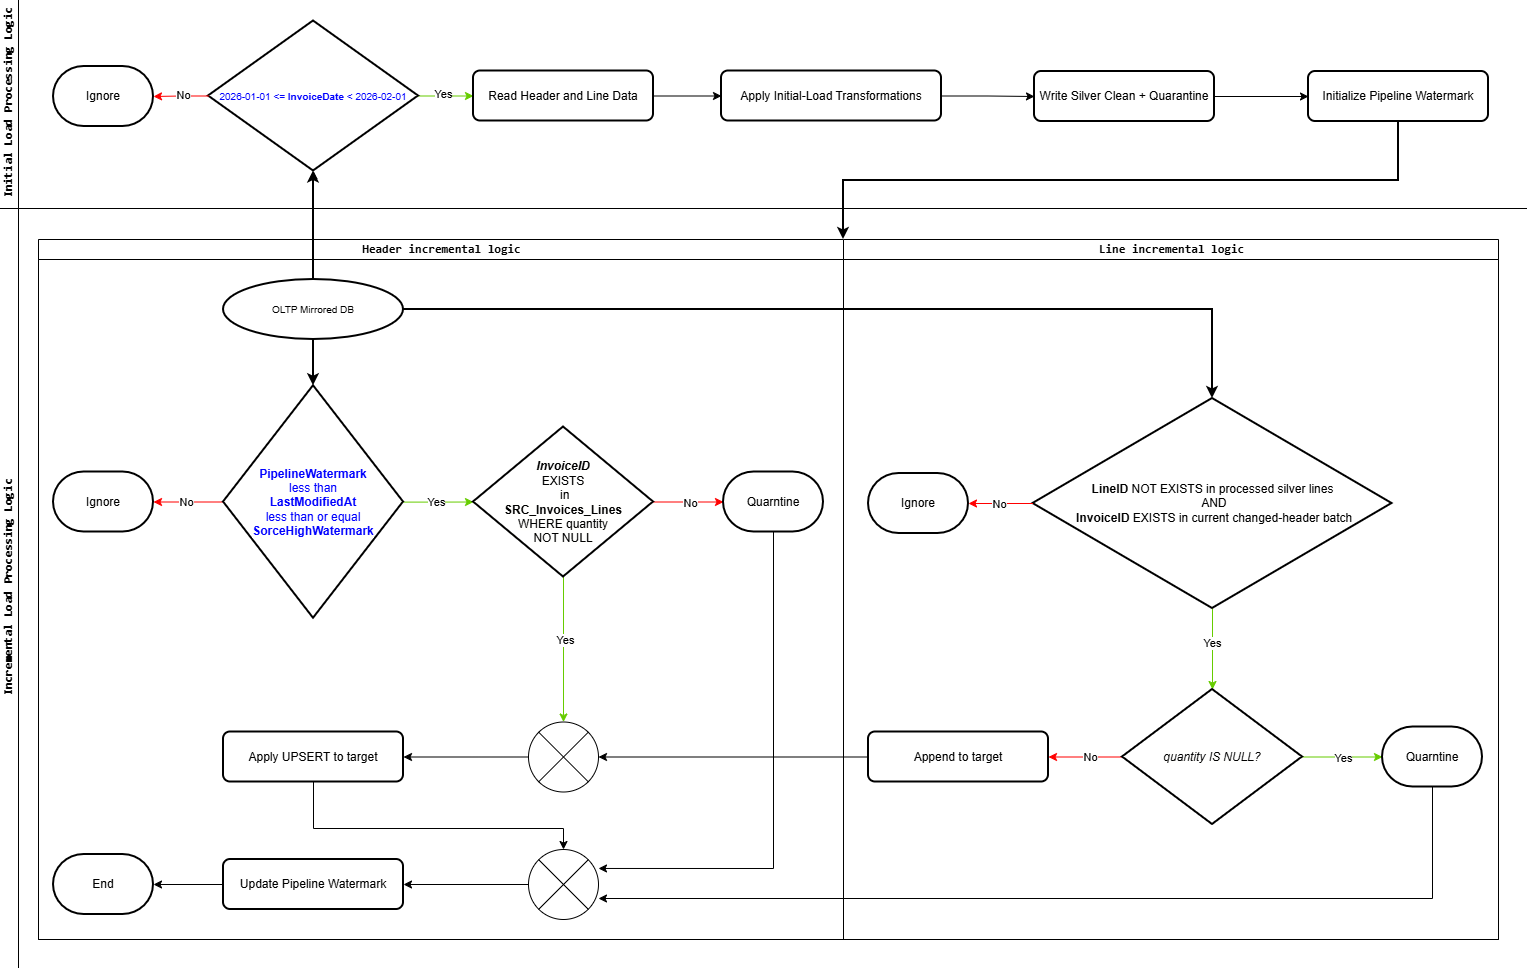
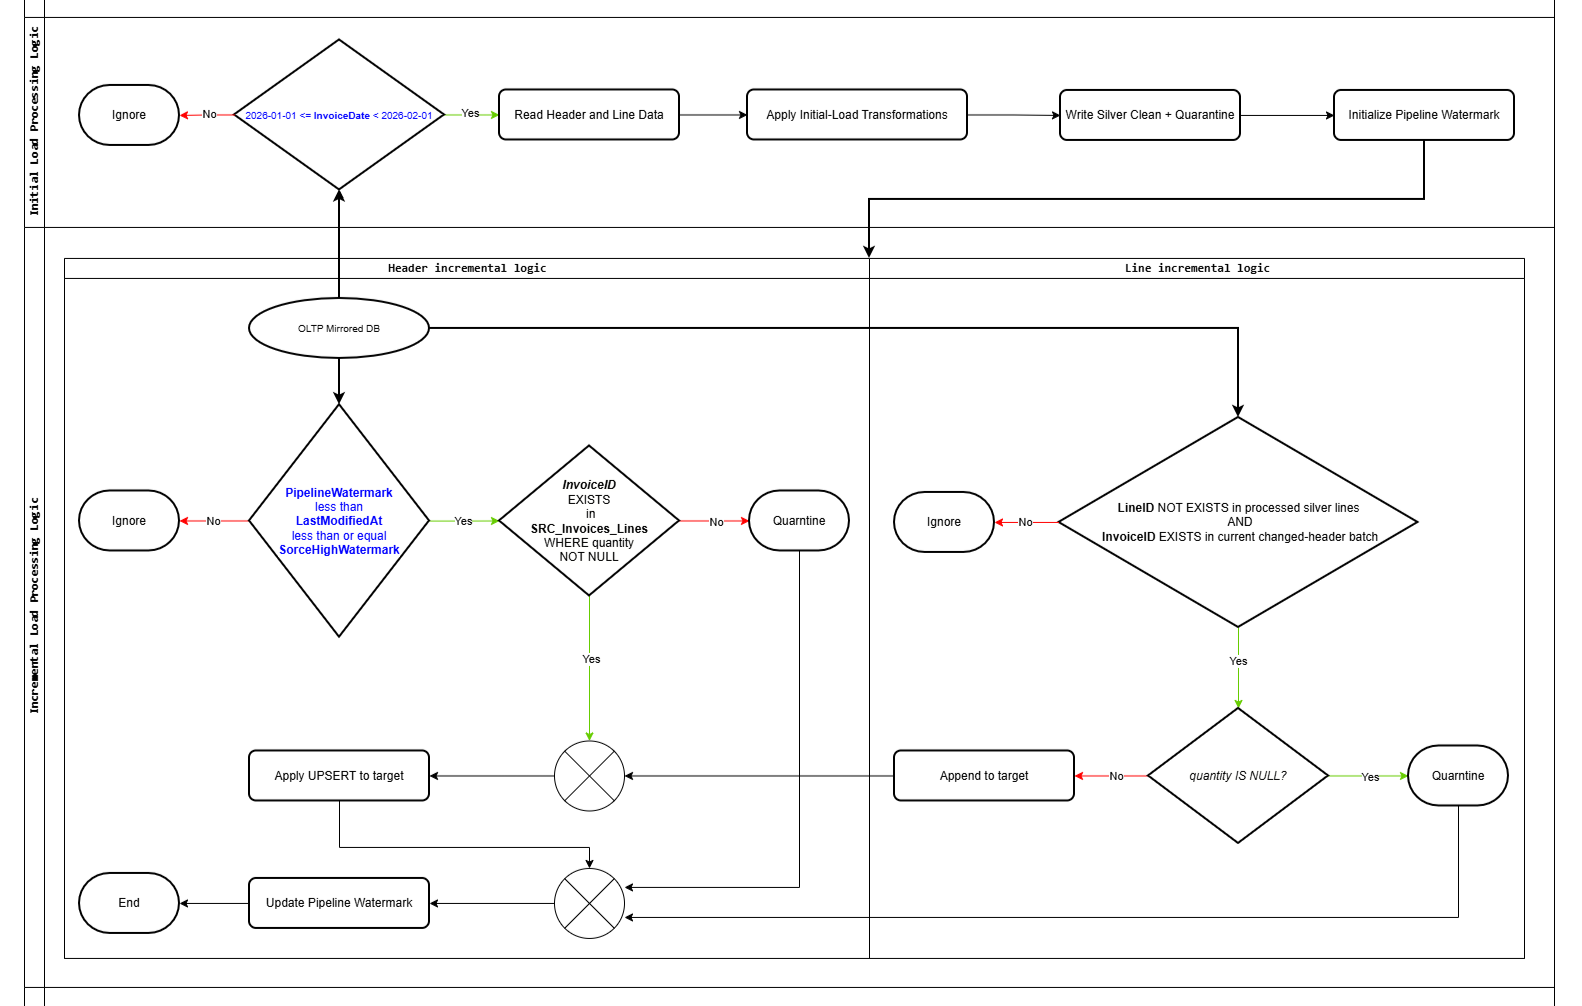
Finalize README and project documentation

diff --git a/README.md b/README.md
@@ -1,6 +1,13 @@
 # Retail Data Platform — Microsoft Fabric
 
-I built this project around a retail business operating 200 stores. It uses synthetic point-of-sale data to support two needs: monitoring recent transactions and reporting on validated historical sales.
+I built this project around a retail business with 200 stores. It uses synthetic point-of-sale data to support two needs: monitoring recent transactions and reporting on validated historical sales.
+
+![Retail data platform architecture](assets/architecture/Fabric_Retail_Architecture.png)
+
+The platform has two reporting paths:
+
+- **Operational reporting:** SQL Server transactions are replicated through Fabric Mirroring and exposed through a Direct Lake semantic model, alongside curated store and product data from the Silver Lakehouse. A Power BI dashboard shows recent transactions, order statuses, and store activity.
+- **Historical reporting:** OneLake shortcuts provide access to mirrored transactions and CSV master data. PySpark notebooks validate and transform the data into Silver Delta tables. A Fabric Warehouse holds a Gold star schema for completed daily sales, which feeds a separate Direct Lake semantic model and Power BI report.
 
 **Tools:** Microsoft Fabric, SQL Server, SQL, PySpark, Delta Lake, OneLake, Fabric Warehouse, Direct Lake, and Power BI.
 
@@ -8,66 +15,90 @@ I built this project around a retail business operating 200 stores. It uses synt
 
 Sales transactions are stored in a central SQL Server database, while store and product details are maintained separately. Each invoice has a header and one or more lines. An invoice can start as `Pending` and later become `Completed` or `Cancelled`.
 
-This creates two challenges: operational reporting needs current transaction statuses, while historical reporting needs clean, consistent sales figures. The processing logic also needs to handle later status changes and keep invalid records available for investigation.
+This creates two challenges: operational reporting needs recent transaction statuses, while historical reporting needs clean, consistent sales figures. The processing logic also needs to handle status changes and keep invalid records available for investigation.
 
 [Read the full business case](docs/business-case.md).
 
 ## Synthetic dataset
 
-I generated two months of retail data using [`Data_Generation.py`](scripts/Data_Generation.py), including controlled status changes and data-quality cases to test the processing logic.
+I generated two months of test data using [`Data_Generation.py`](scripts/Data_Generation.py), including controlled status changes and data-quality cases to test the processing logic.
 
-| Data | January 2026 | February 2026 | Total |
-| --- | ---: | ---: | ---: |
-| Invoice headers | 308,269 | 276,468 | 584,737 |
-| Invoice lines | 616,327 | 553,238 | 1,169,565 |
+<table align="center">
+  <thead>
+    <tr>
+      <th>Data</th>
+      <th align="right">January 2026</th>
+      <th align="right">February 2026</th>
+      <th align="right">Total</th>
+    </tr>
+  </thead>
+  <tbody>
+    <tr>
+      <td>Invoice headers</td>
+      <td align="right">308,269</td>
+      <td align="right">276,468</td>
+      <td align="right">584,737</td>
+    </tr>
+    <tr>
+      <td>Invoice lines</td>
+      <td align="right">616,327</td>
+      <td align="right">553,238</td>
+      <td align="right">1,169,565</td>
+    </tr>
+  </tbody>
+</table>
 
-The master data includes **200 stores** and **100 products**. The generated data also includes **2,839 invoice status update events**, allowing me to test the incremental processing of existing invoices as well as new ones.
+The master data includes **200 stores** and **100 products**. I also generated **2,839 invoice status update events** to test incremental processing of existing invoices alongside new transactions.
 
-[See the full synthetic dataset reference](docs/synthetic-dataset-reference.md) for the monthly status counts, missing quantities, and controlled updates.
-
-## Architecture
-
-![Retail data platform architecture](assets/architecture/Fabric_Retail_Architecture.png)
-
-The platform has two reporting paths:
-
-- **Operational reporting:** SQL Server transactions are replicated through Fabric Mirroring and exposed through a Direct Lake semantic model, alongside curated store and product data from the Silver Lakehouse. A Power BI dashboard tracks recent transactions, order statuses, and store activity.
-- **Historical reporting:** OneLake shortcuts provide access to mirrored transactions and CSV master data. PySpark notebooks validate and transform the data into Silver Delta tables. A Fabric Warehouse holds a Gold star schema for completed daily sales, which feeds a separate Power BI report.
+[See the synthetic dataset reference](docs/synthetic-dataset-reference.md) for the monthly counts and test scenarios.
 
 ## Data profiling and quality
 
-Before building the Silver tables, I profiled the source data for missing values, duplicate keys, and broken relationships. The initial January checks found no orphan records in the tested source relationships. The main issue was missing quantities in invoice lines.
+Before building the Silver tables, I profiled the source data for missing values, duplicate keys, and broken relationships. The January initial-load checks found no orphan records in the tested relationships, but missing invoice-line quantities required special handling.
 
-Across the generated January–February dataset:
+Across the full January–February generated dataset, **58,719 invoice lines** had missing quantities, leaving **10,256 invoices** without any valid lines. The processing rules quarantine those records rather than silently discarding them.
 
-- **58,719 invoice lines** had a missing `Quantity` and needed quarantine.
-- **10,256 invoices** were left with no valid lines after those checks and also needed quarantine.
+[Read the January profiling findings](docs/data-profiling.md), or open the [profiling notebook](notebooks/1_nb_data_profiling.ipynb) for the queries.
 
-The rules keep problematic records traceable instead of silently dropping them. [Read the January profiling findings](docs/data-profiling.md) for the detailed dataset-level results, or see [`1_nb_data_profiling.ipynb`](notebooks/1_nb_data_profiling.ipynb) for the profiling queries.
+## Bronze-to-Silver processing
+
+The initial load establishes the January Silver baseline. Incremental processing then picks up February transactions and later invoice status changes using a bounded watermark on `LastModifiedAt`. Valid data is written to Silver Delta tables, while invalid lines and invoices are kept in quarantine.
+
+![Bronze-to-Silver initial and incremental processing flow](assets/processing/bronze_silver_processing_flow.png)
+
+The diagram summarizes the validation and load decisions. The implementation is in the [initial-load notebook](notebooks/2_nb_initial_load.ipynb) and [incremental processing notebook](notebooks/3_nb_bronze_to_silver_transformation.ipynb).
+
+## Gold star schema
+
+For historical reporting, I built a Fabric Warehouse star schema with Date, Store, and Product dimensions. The completed-sales fact is aggregated at **date + store + product** grain.
+
+<p align="center">
+  <img src="assets/modeling/gold_star_schema.png" alt="Gold warehouse star schema">
+</p>
 
 ## What I implemented
 
-- Built the SQL Server source schema and generated transactions with controlled status changes.
-- Processed initial and incremental data in PySpark using validation, quarantine, bounded watermarks, and Delta `MERGE`.
-- Built a Gold warehouse star schema with date, store, and product dimensions. The daily sales fact is at **date + store + product** grain.
-- Created separate Direct Lake semantic models and Power BI reports for operational and historical reporting.
-- Demonstrated Delta Time Travel, 30-day retention on the Silver invoice headers, `OPTIMIZE` with `ZORDER`, and safe `VACUUM` dry-run inspection.
+- Built the SQL Server source tables and generated transactions with controlled status updates.
+- Implemented data-quality validation, quarantine, and incremental processing with PySpark and Delta `MERGE`.
+- Created the Gold warehouse loads and validation queries, plus separate Direct Lake semantic models for each reporting path.
+- Demonstrated Delta Time Travel, 30-day retention on Silver invoice headers, `OPTIMIZE` with `ZORDER`, and safe `VACUUM` dry-run inspection.
 
-## Reports and data model
+## Reports and semantic models
+
+The operational dashboard focuses on transaction activity. The historical report uses the validated Gold sales model.
 
 | Operational dashboard | Historical sales report |
 | --- | --- |
 | ![Operational dashboard](assets/reports/rep_operational_analytics.png) | ![Historical report](assets/reports/rep_historical_analytics.png) |
 
-[Gold star schema](assets/modeling/gold_star_schema.png) · [Operational semantic model](assets/semantic_models/sm_operational_analytics.png) · [Historical semantic model](assets/semantic_models/sm_historical_analytics.png)
+[Operational semantic model](assets/semantic_models/sm_operational_analytics.png) · [Historical semantic model](assets/semantic_models/sm_historical_analytics.png)
 
 ## Repository guide
 
 - [`docs/`](docs/) — business case, synthetic dataset reference, and January data profiling findings.
 - [`notebooks/`](notebooks/) — data profiling, initial load, incremental Bronze-to-Silver processing, Time Travel, and optimization.
-- [`sql/`](sql/) — source SQL Server scripts and Fabric Warehouse schema, loads, and validation queries.
+- [`sql/`](sql/) — SQL Server source scripts and Fabric Warehouse schema, loads, and validation queries.
 - [`scripts/`](scripts/) — synthetic retail data generator.
-- [`assets/`](assets/) — architecture, dimensional model, semantic model, and report screenshots.
-- [Bronze-to-Silver processing flowchart](assets/processing/bronze_silver_processing_flow.png) — initial and incremental load logic, validation, and quarantine.
+- [`assets/`](assets/) — architecture, processing workflow, star schema, semantic model diagrams, and report screenshots.
 
 **Project scope:** This is a portfolio implementation using synthetic data and controlled load runs, not a deployed production pipeline.
